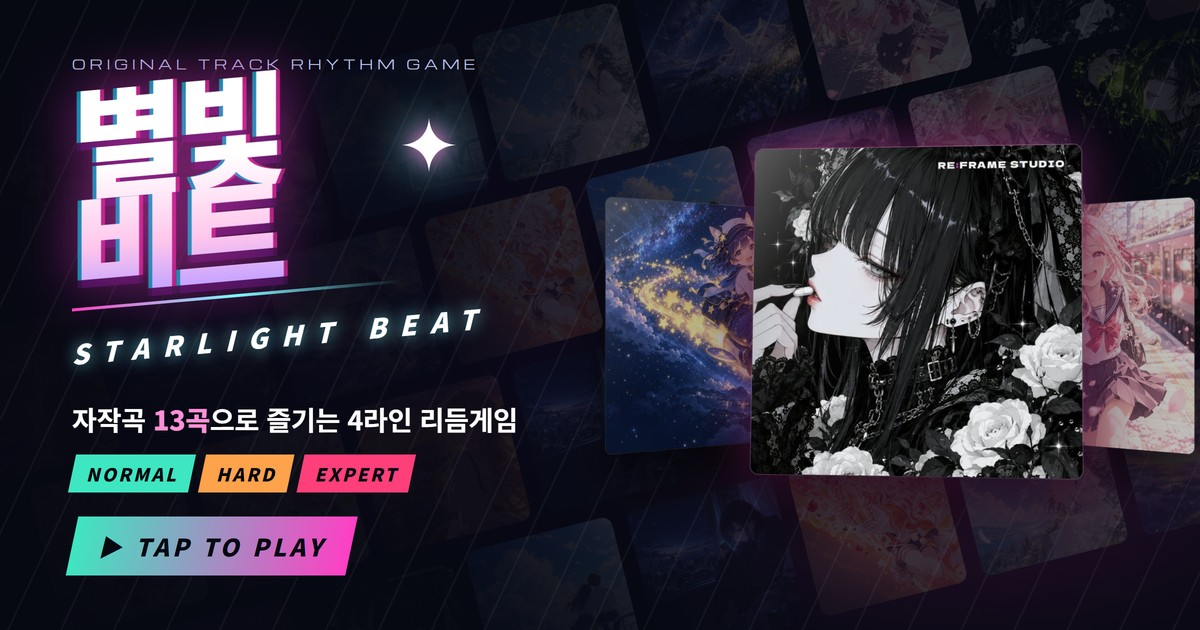
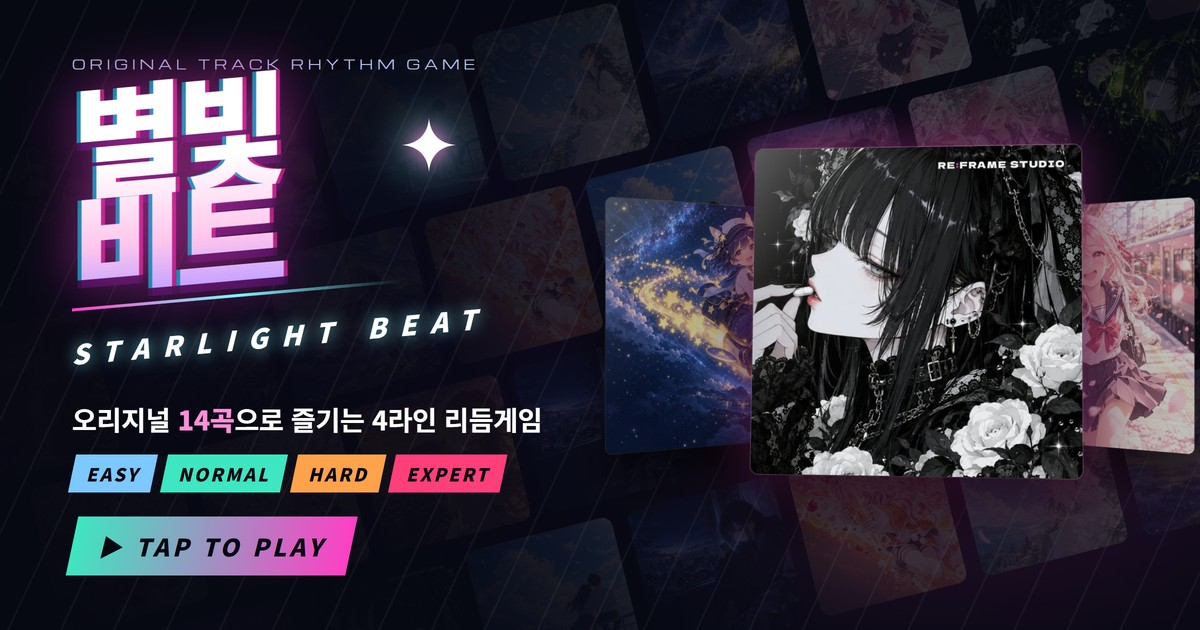
별빛 비트 14곡으로 소개 문구·이미지 갱신

Changed region(s): [[0.0308, 0.6333, 0.4625, 0.7841]]

diff --git a/index.html b/index.html
@@ -157,7 +157,7 @@ a:focus-visible,button:focus-visible{outline:2px solid var(--cyan);outline-offse
     </div>
     <div class="stats reveal">
       <div class="stat"><b data-count="3">0</b><span>무료 게임</span></div>
-      <div class="stat"><b data-count="13">0</b><span>자작곡</span></div>
+      <div class="stat"><b data-count="14">0</b><span>오리지널 곡</span></div>
       <div class="stat"><b data-count="100" data-suffix="%">0</b><span>설치 없이 바로</span></div>
     </div>
     <a class="scroll reveal" href="#games" aria-label="게임 목록으로"></a>
@@ -176,7 +176,7 @@ a:focus-visible,button:focus-visible{outline:2px solid var(--cyan);outline-offse
           <div class="body">
             <span class="genre">Rhythm</span>
             <h3>별빛 비트</h3>
-            <p>자작곡 13곡으로 즐기는 4라인 리듬게임. 노트를 칠 때마다 드럼이 살아나요.</p>
+            <p>오리지널 14곡으로 즐기는 4라인 리듬게임. 노트를 칠 때마다 드럼이 살아나요.</p>
             <div class="meta"><span>EASY~EXPERT</span><span>폰·PC</span><span>곡당 3분</span></div>
             <div class="play"><b>PLAY</b><i><svg viewBox="0 0 24 24" aria-hidden="true"><path d="M8 5v14l11-7z" fill="currentColor"/></svg></i></div>
           </div>
